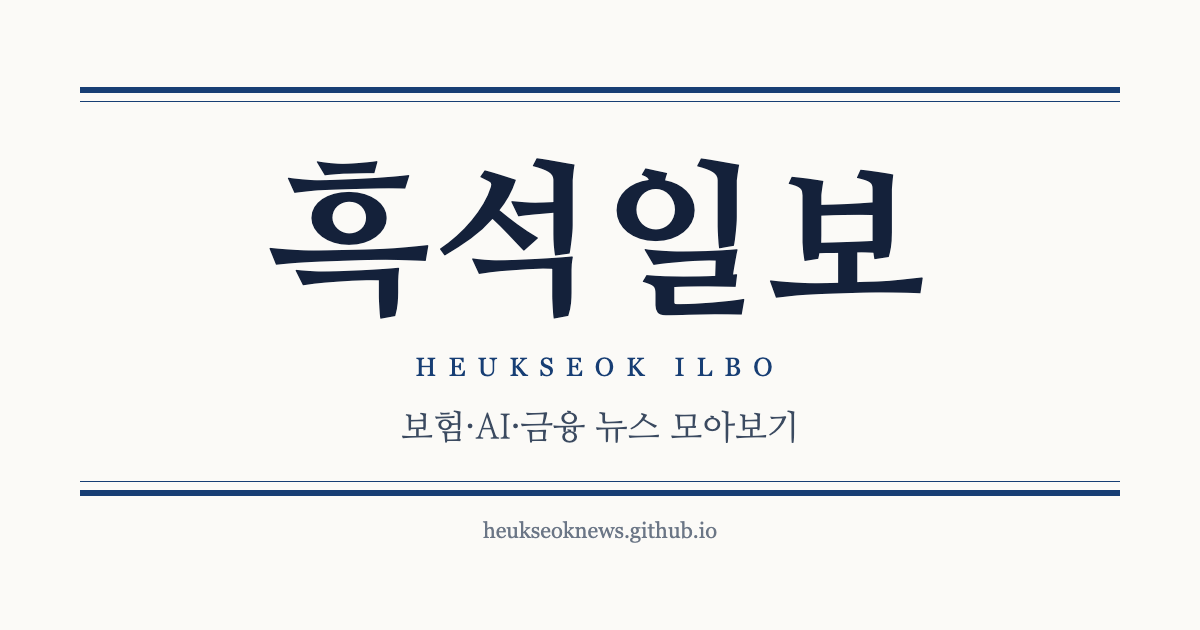
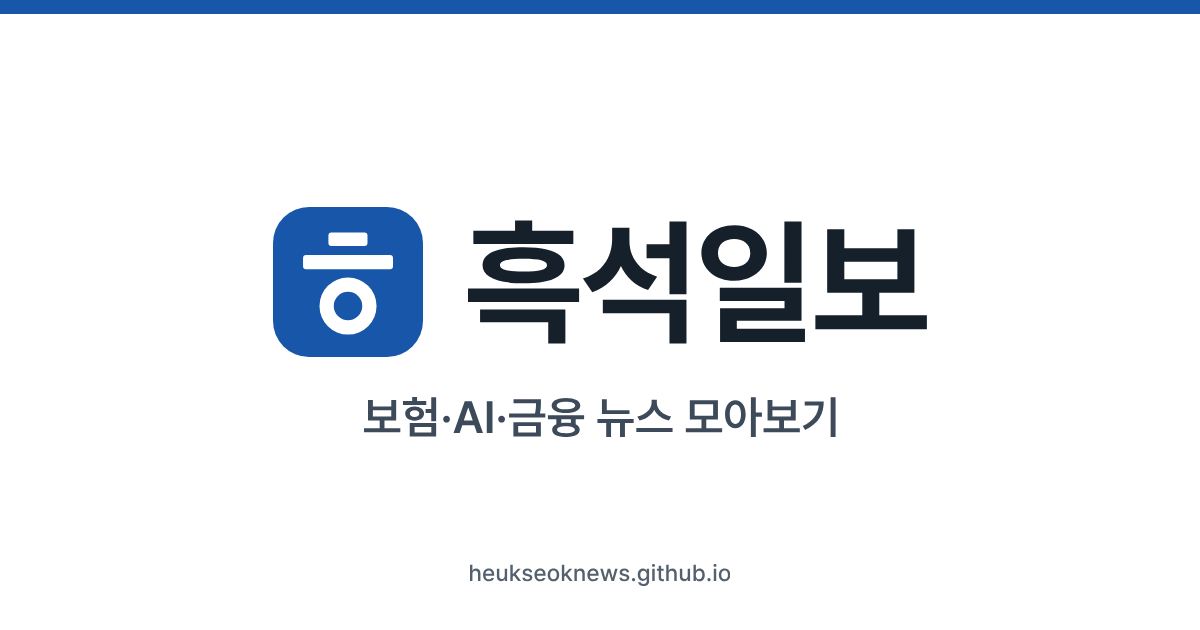
디자인 2: ㅎ 심볼 워드마크, 파비콘·앱 아이콘·OG 이미지 교체
- components/Wordmark.tsx: 세리프 글자 → 인라인 SVG(심볼 바탕 = 채널 색, 글자 = currentColor)
- lib/wordmark.json: 워드마크·심볼·OG 문구 윤곽선(Pretendard, OFL). 폰트 파일 의존 없음
- scripts/make-share-images.mjs: og.png·apple-touch-icon·favicon.ico/svg 를 path 로 생성(시스템 글꼴 의존 제거)

diff --git a/app/globals.css b/app/globals.css
@@ -13,7 +13,7 @@
 html{scroll-padding-top:72px}
 .siteHeaderInner{max-width:1100px;margin:auto;padding:8px 24px;display:flex;align-items:center;justify-content:space-between;gap:16px;position:relative}
 .siteBrand{display:flex;align-items:center;gap:12px;text-decoration:none;color:var(--text);min-width:0}
-.wordmark{font-family:'Nanum Myeongjo','Noto Serif KR','Noto Serif CJK KR','AppleMyungjo','Batang',serif;font-size:27px;font-weight:700;letter-spacing:1px;line-height:1.1;color:var(--text);white-space:nowrap}
+.wordmark{display:block;height:26px;width:auto;flex-shrink:0;color:var(--text)}.wmSym{fill:var(--brand)}.wmGlyph{fill:#fff}.wmText{fill:currentColor}
 .wordmarkSub{font-size:12px;color:var(--muted);padding-left:12px;border-left:1px solid var(--line);line-height:1.3;white-space:nowrap}
 .siteNav{display:flex;align-items:center;gap:14px}
 .utilNav{padding-left:12px;border-left:1px solid var(--line)}.utilNav ul{gap:0}
@@ -38,7 +38,7 @@ footer.siteFooter{margin-top:0;background:#fff;border-top:1px solid var(--line);
 .footBottom{margin-top:24px!important;padding-top:16px;border-top:1px solid var(--line-soft);font-size:var(--fs-12)!important;color:var(--muted)}
 @media(max-width:640px){
  .siteHeaderInner{padding:8px 16px}
- .wordmark{font-size:23px}.wordmarkSub{display:none}
+ .wordmark{height:22px}.wordmarkSub{display:none}
  .menuBtn{display:flex}
  .siteNav{display:none;position:absolute;top:100%;left:0;right:0;background:#fff;border-bottom:1px solid var(--line);flex-direction:column;align-items:stretch;gap:0;padding:6px 16px 14px;box-shadow:0 8px 14px #1a28390d}
  .siteNav.open{display:flex}
@@ -121,6 +121,6 @@ footer.siteFooter{margin-top:0;background:#fff;border-top:1px solid var(--line);
 .dataPanel{padding:18px 20px;margin:18px 0}.dataPanel h3{font-size:15px;color:#224b79;margin:0 0 12px}.dataPanel h3 small{font-weight:normal;color:var(--muted);font-size:12px;margin-left:6px}.dataNote{font-size:12px;color:var(--muted);margin:12px 0 0;line-height:1.5}.dataActions{display:flex;flex-wrap:wrap;gap:10px;align-items:center;margin-top:14px}.fileBtn{display:inline-flex;align-items:center;gap:6px;cursor:pointer}.fileBtn input{position:absolute;width:1px;height:1px;opacity:0;pointer-events:none}.fileBtn:focus-within{outline:2px solid var(--brand);outline-offset:2px}
 .channelSwitch ul{display:flex;gap:4px;margin:0;padding:0;list-style:none}.channelSwitch a{display:block;text-decoration:none;font-size:13px;font-weight:700;color:var(--text-2);border:1px solid var(--line);border-radius:40px;padding:5px 12px}.channelSwitch a.active{color:#fff;background:var(--brand-strong);border-color:var(--brand-strong)}
 .portal h1{font-size:24px;margin:0 0 6px}.portal p{color:var(--muted);margin:0 0 16px}.portal a{color:var(--brand)}
-.notFound{max-width:560px;margin:0 auto;padding:96px 24px;text-align:center}.notFound>a:first-child{text-decoration:none}.notFound .wordmark{display:inline-block;font-size:32px;text-decoration:none;margin-bottom:28px}.notFound h1{font-size:var(--fs-28);line-height:1.3;color:var(--text);margin:0 0 10px}.notFound p{color:var(--muted);font-size:14px;margin:0 0 24px}.notFound .confirm{display:inline-flex;text-decoration:none;font-size:13px}.notFound a:focus-visible{outline:2px solid var(--brand);outline-offset:2px;border-radius:4px}
+.notFound{max-width:560px;margin:0 auto;padding:96px 24px;text-align:center}.notFound>a:first-child{text-decoration:none}.notFound .wordmark{display:inline-block;height:44px;margin-bottom:28px}.notFound h1{font-size:var(--fs-28);line-height:1.3;color:var(--text);margin:0 0 10px}.notFound p{color:var(--muted);font-size:14px;margin:0 0 24px}.notFound .confirm{display:inline-flex;text-decoration:none;font-size:13px}.notFound a:focus-visible{outline:2px solid var(--brand);outline-offset:2px;border-radius:4px}
 
 @media(max-width:640px){.notFound h1{font-size:24px}}

diff --git a/components/Wordmark.tsx b/components/Wordmark.tsx
@@ -1,9 +1,16 @@
+import mark from '../lib/wordmark.json';
 import { SITE } from '../lib/site';
 
-/** 제호 워드마크(시스템 세리프 글꼴, 폰트 파일 없음). sub=true 면 사이트 부제를 옆에 붙인다. */
+/** 제호 워드마크(ㅎ 심볼 + 고딕). 글자는 윤곽선 path(lib/wordmark.json)라 폰트와 무관하게 같은 모양.
+ *  심볼 바탕은 채널 색(--brand), 글자는 currentColor. sub=true 면 사이트 부제를 옆에 붙인다. */
 export default function Wordmark({ sub = false }: { sub?: boolean }) {
+  const s = mark.symbol;
   return <>
-    <span className="wordmark">{SITE.name}</span>
+    <svg className="wordmark" viewBox={mark.viewBox.join(' ')} aria-hidden="true" focusable="false">
+      <rect className="wmSym" width={s.size} height={s.size} rx={s.radius} />
+      <path className="wmGlyph" fillRule="evenodd" d={s.glyph} />
+      <path className="wmText" d={mark.text} />
+    </svg>
     {sub && <span className="wordmarkSub">{SITE.subtitle}</span>}
   </>;
 }
